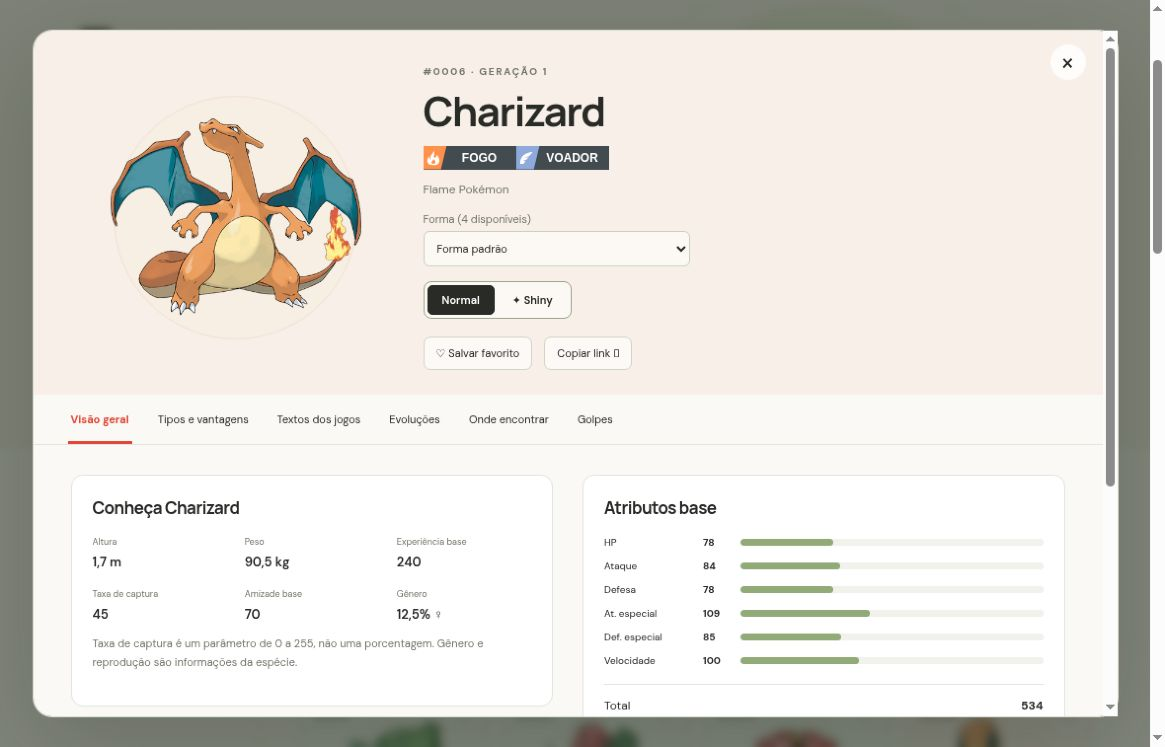
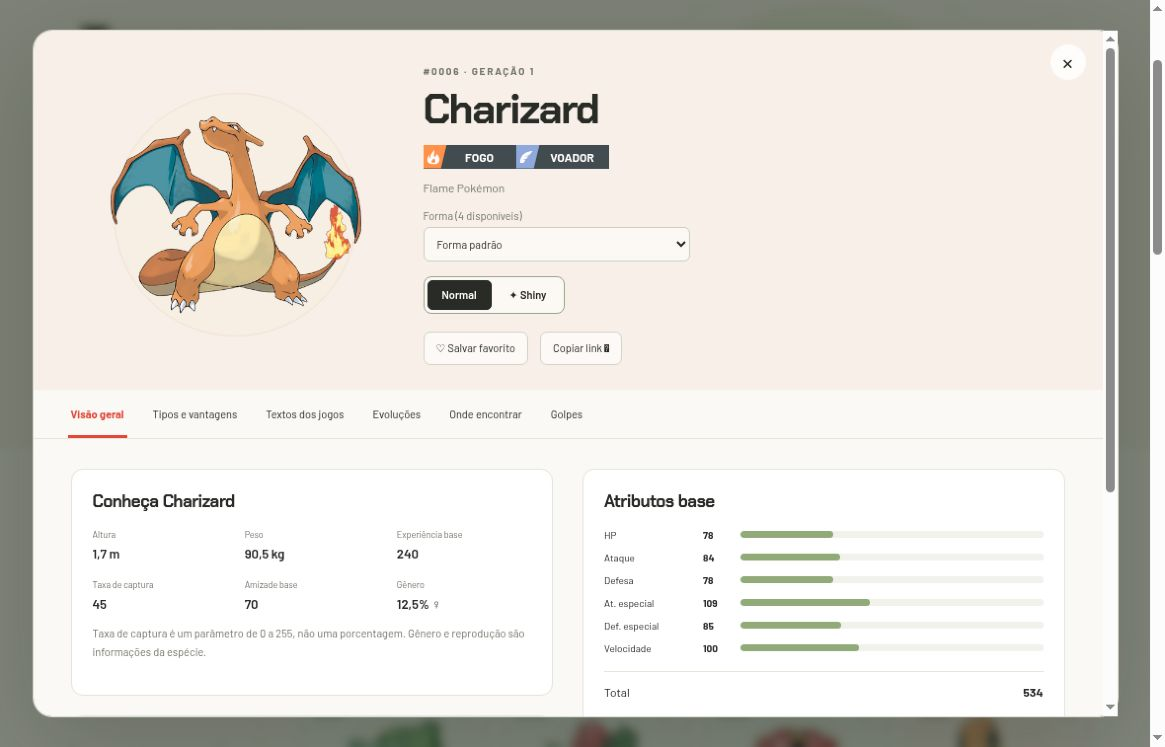
style: aplicar Chakra Petch e Barlow em toda a Pokédex

diff --git a/web/styles.css b/web/styles.css
@@ -1,4 +1,4 @@
-@import url('https://fonts.googleapis.com/css2?family=DM+Sans:wght@400;450;500;550;600;650;700&family=Manrope:wght@400;500;600;650;700;750;800&display=swap');
+@import url('https://fonts.googleapis.com/css2?family=Barlow:wght@400;500;600;700;800&family=Chakra+Petch:wght@400;500;600;700&display=swap');
 /* Identidade visual: cores, tipografia e espaçamentos compartilhados. */
 :root {
   --paper: #faf9f5;
@@ -9,7 +9,9 @@
   --green: #687558;
   --soft: #eff1e7;
   --radius: 18px;
-  font-family: 'DM Sans', sans-serif;
+  --font-body: 'Barlow', sans-serif;
+  --font-heading: 'Chakra Petch', sans-serif;
+  font-family: var(--font-body);
   color: var(--ink);
   background: var(--paper);
   font-synthesis: none;
@@ -68,8 +70,11 @@ p {
 h1,
 h2,
 h3,
+h4,
+h5,
+h6,
 .brand {
-  font-family: 'Manrope', sans-serif;
+  font-family: var(--font-heading);
 }
 h2 {
   font-size: 34px;
@@ -90,7 +95,7 @@ h3 {
 }
 .brand {
   font-size: 29px;
-  font-weight: 800;
+  font-weight: 700;
   letter-spacing: -1.8px;
   display: flex;
   align-items: center;
@@ -139,7 +144,7 @@ h3 {
   gap: 30px;
   align-items: center;
   font-size: 13px;
-  font-weight: 550;
+  font-weight: 500;
 }
 .topbar nav a,
 .topbar nav button {
@@ -193,7 +198,7 @@ h3 {
 }
 h1 {
   font-size: clamp(42px, 4.3vw, 68px);
-  font-weight: 750;
+  font-weight: 700;
   line-height: 1.1;
   letter-spacing: -3.5px;
   margin: 23px 0 19px;
@@ -217,7 +222,7 @@ h1 em {
   border-radius: 8px;
   padding: 15px 21px;
   font-size: 12px;
-  font-weight: 650;
+  font-weight: 600;
   margin-top: 26px;
   transition: background 0.2s;
 }
@@ -240,8 +245,7 @@ h1 em {
 }
 .hero-numbers strong {
   font:
-    750 25px 'Manrope',
-    sans-serif;
+    700 25px var(--font-heading);
   letter-spacing: -1px;
 }
 .hero-numbers span {
@@ -285,7 +289,7 @@ h1 em {
   position: absolute;
   right: 0;
   top: 30px;
-  font: 800 120px 'Manrope';
+  font: 700 120px var(--font-heading);
   color: #d9ddcc;
   letter-spacing: -6px;
 }
@@ -316,7 +320,7 @@ h1 em {
 }
 .featured-label strong {
   display: block;
-  font: 750 27px 'Manrope';
+  font: 700 27px var(--font-heading);
   letter-spacing: -1px;
   margin: 4px 0 8px;
 }
@@ -384,7 +388,7 @@ h1 em {
 .region.active {
   background: #f9e8df;
   color: #c24535;
-  font-weight: 650;
+  font-weight: 600;
 }
 .sidebar-note {
   margin-top: 36px;
@@ -650,9 +654,8 @@ select {
   border-radius: 0;
   background: #414b50;
   color: #fff;
-  font-family: 'Arial Narrow', 'Liberation Sans Narrow', 'Roboto Condensed', sans-serif;
+  font-family: var(--font-body);
   font-size: 11px;
-  font-stretch: condensed;
   font-weight: 700;
   line-height: 1;
   text-transform: uppercase;
@@ -1100,7 +1103,7 @@ dialog::backdrop {
   max-width: 300px;
 }
 .flavor-text {
-  font: 500 23px/1.65 'Manrope';
+  font: 500 23px/1.65 var(--font-body);
   letter-spacing: -0.4px;
   padding: 25px;
   border-left: 3px solid var(--red);

diff --git a/docs/imagens/README.md b/docs/imagens/README.md
@@ -2,23 +2,23 @@
 
 [Início](../../README.md) · [Guia de uso](../usuario/README.md) · [Validação](../VALIDACAO.md)
 
-Estas imagens foram capturadas na aplicação real no preview local em **4 de novembro de 2026**, versão **1.2.0**, usando Chromium. As dez capturas anteriores foram substituídas para mostrar o novo visual dos tipos. As versões antigas continuam no histórico Git, não são apresentadas como o estado atual.
+Estas imagens foram capturadas na aplicação real no preview local em **4 de novembro de 2026**, versão **1.2.1**, usando Chromium. As onze capturas anteriores foram substituídas para mostrar Chakra Petch nos títulos e Barlow nos textos e rótulos de tipos. As versões antigas continuam no histórico Git, não são apresentadas como o estado atual.
 
 Os símbolos são SVG e os nomes são texto, não recortes ampliados da referência. As capturas JPEG preservam a resolução fornecida pelo navegador (aproximadamente 1.165 × 747 pixels no desktop); não foram artificialmente ampliadas.
 
 | Arquivo | Versão | Conteúdo e contexto |
 | --- | --- | --- |
-| [pokedex-refatoracao.jpg](pokedex-refatoracao.jpg) | 1.2.0 | Catálogo inicial com novos tipos; nome do arquivo preservado para links existentes |
-| [pokedex-inicio.jpg](pokedex-inicio.jpg) | 1.2.0 | Página inicial e destaque com Fogo/Voador |
-| [pokedex-formas.jpg](pokedex-formas.jpg) | 1.2.0 | Quatro formas de Charizard com Shiny |
-| [pokedex-tipos.jpg](pokedex-tipos.jpg) | 1.2.0 | Defesa e eficácia de Charizard com símbolos dos 18 tipos |
-| [pokedex-textos.jpg](pokedex-textos.jpg) | 1.2.0 | Charizard, texto em inglês para Shield |
-| [pokedex-evolucoes.jpg](pokedex-evolucoes.jpg) | 1.2.0 | Trecho de Eevee com Jolteon, Flareon e Espeon |
-| [pokedex-encontros.jpg](pokedex-encontros.jpg) | 1.2.0 | Pikachu em Red, áreas e chances por slot |
-| [pokedex-golpes.jpg](pokedex-golpes.jpg) | 1.2.0 | Charizard, Scarlet Violet, busca `flame` |
-| [pokedex-shiny.jpg](pokedex-shiny.jpg) | 1.2.0 | Ficha shiny de Charizard com os novos símbolos |
-| [pokedex-ficha.jpg](pokedex-ficha.jpg) | 1.2.0 | Ficha normal e atributos de Charizard |
-| [pokedex-mobile.jpg](pokedex-mobile.jpg) | 1.2.0 | Frames reais de 375 e 320 pixels; simulação responsiva, não dispositivo físico |
+| [pokedex-refatoracao.jpg](pokedex-refatoracao.jpg) | 1.2.1 | Catálogo inicial com novos tipos; nome do arquivo preservado para links existentes |
+| [pokedex-inicio.jpg](pokedex-inicio.jpg) | 1.2.1 | Página inicial e destaque com Fogo/Voador |
+| [pokedex-formas.jpg](pokedex-formas.jpg) | 1.2.1 | Quatro formas de Charizard com Shiny |
+| [pokedex-tipos.jpg](pokedex-tipos.jpg) | 1.2.1 | Defesa e eficácia de Charizard com símbolos dos 18 tipos |
+| [pokedex-textos.jpg](pokedex-textos.jpg) | 1.2.1 | Charizard, texto em inglês para Shield |
+| [pokedex-evolucoes.jpg](pokedex-evolucoes.jpg) | 1.2.1 | Trecho da família de Eevee com Leafeon e Glaceon |
+| [pokedex-encontros.jpg](pokedex-encontros.jpg) | 1.2.1 | Pikachu em Red, áreas e chances por slot |
+| [pokedex-golpes.jpg](pokedex-golpes.jpg) | 1.2.1 | Charizard, Scarlet Violet, busca `flame` |
+| [pokedex-shiny.jpg](pokedex-shiny.jpg) | 1.2.1 | Ficha shiny de Charizard com os novos símbolos |
+| [pokedex-ficha.jpg](pokedex-ficha.jpg) | 1.2.1 | Ficha normal e atributos de Charizard |
+| [pokedex-mobile.jpg](pokedex-mobile.jpg) | 1.2.1 | Frames reais de 375 e 320 pixels; simulação responsiva, não dispositivo físico |
 
 ## Catálogo e formas
 

diff --git a/README.md b/README.md
@@ -10,7 +10,9 @@ Explore espécies, descubra formas e conheça cada detalhe da sua próxima avent
 
 ![Página inicial da Pokédex com a chamada Temos que pegar e o catálogo nacional](docs/imagens/pokedex-inicio.jpg)
 
-*Página inicial da versão 1.2.0, capturada no aplicativo real. O site está aberto ao público desde 03/11/2026; o código também pode ser executado localmente.*
+*Página inicial da versão 1.2.1, capturada no aplicativo real. O site está aberto ao público desde 03/11/2026; o código também pode ser executado localmente.*
+
+A interface usa **Chakra Petch nos títulos e na marca** e **Barlow nos textos, controles e rótulos de tipos**. As capturas abaixo mostram essa identidade; a fonte do texto Markdown no GitHub é definida pela própria plataforma.
 
 ## O que este projeto faz
 
@@ -46,7 +48,7 @@ A seleção de forma muda o registro consultado. A alternância **Normal/Shiny**
 
 ![Charizard shiny na visão geral, com símbolos vetoriais dos tipos e atributos](docs/imagens/pokedex-shiny.jpg)
 
-*Captura da versão 1.2.0: shiny e faixas com ícones vetoriais, cores vivas e nomes legíveis.*
+*Captura da versão 1.2.1: shiny e faixas com ícones vetoriais, cores vivas e nomes legíveis.*
 
 Formas cosméticas usam sprites específicos quando disponíveis. Se a fonte não fornece uma imagem shiny utilizável, a interface avisa; não apresenta a imagem normal como se fosse shiny.
 
@@ -240,7 +242,7 @@ npm test
 npm run build
 ```
 
-São **33 testes automatizados**: 8 de domínio, 6 de integridade da base, 5 de imagens, 3 de carregamento, 7 de painéis/seleção e 4 de apresentação vetorial dos tipos. A suíte não exige rede nem navegador. A verificação estática confere sintaxe JavaScript, referências locais do HTML e invariantes básicos. O build recria `dist/` a partir de `web/`.
+São **34 testes automatizados**: 8 de domínio, 6 de integridade da base, 5 de imagens, 3 de carregamento, 7 de painéis/seleção e 5 de apresentação visual e tipografia. A suíte não exige rede nem navegador. A verificação estática confere sintaxe JavaScript, referências locais do HTML e invariantes básicos. O build recria `dist/` a partir de `web/`.
 
 O GitHub Actions roda os comandos web com Node.js 22 e compila/executa o Java com JDK 17. O CI não faz deploy automático e não substitui revisão visual, testes físicos de dispositivos ou auditoria completa de acessibilidade.
 

diff --git a/docs/VALIDACAO.md b/docs/VALIDACAO.md
@@ -2,7 +2,16 @@
 
 [Início](../README.md) · [Suíte e roteiro manual](../tests/README.md) · [Galeria](imagens/README.md)
 
-Este registro distingue resultados observados, verificações automatizadas e limites. A aplicação está na versão **1.2.0**. Os registros anteriores abaixo são históricos.
+Este registro distingue resultados observados, verificações automatizadas e limites. A aplicação está na versão **1.2.1**. Os registros anteriores abaixo são históricos.
+
+## Tipografia 1.2.1 — 2026-11-04
+
+- `npm test`: 34 testes aprovados; `npm run check` e `npm run build` aprovados.
+- Chromium: família computada Chakra Petch no título e Barlow no corpo e badges; sem transbordamento horizontal no documento desktop.
+- Capturas renovadas de início, catálogo, formas, ficha, shiny, tipos, textos, evoluções, encontros, golpes e frames responsivos de 320/375 pixels.
+- Layout responsivo inspecionado visualmente em frames reais, não em aparelho físico.
+- O teste de regressão impede o retorno das famílias anteriores e confere os tokens e sua aplicação em títulos, badges e descrições.
+- Java não foi alterado; validação de CI remoto deve ser consultada no commit publicado.
 
 ## Tipos vetoriais 1.2.0 — 2026-11-04
 

diff --git a/web/README.md b/web/README.md
@@ -21,3 +21,7 @@ O catálogo inicia com 24 cartões. As fichas usam seis abas e carregamento por 
 Favoritos ficam no `localStorage` da origem. Não há backend de contas, chave de API, banco remoto, service worker ou garantia de funcionamento offline. O servidor de desenvolvimento apenas fornece os arquivos.
 
 Antes de enviar mudanças visuais, confira cartões, forma alternativa, shiny, ficha com dados ausentes, foco de teclado e tela estreita. [Validação](../tests/README.md).
+
+## Tipografia
+
+`styles.css` centraliza as famílias em `--font-heading` (Chakra Petch) e `--font-body` (Barlow). Títulos, marca e números de destaque usam a primeira; parágrafos, formulários, abas, tabelas e faixas de tipos usam a segunda. O carregamento via Google Fonts usa `display=swap`, com fallback sans-serif.

diff --git a/docs/FONTES.md b/docs/FONTES.md
@@ -4,6 +4,13 @@
 
 A interface, organização, importador, regras de consulta e testes desta versão foram desenvolvidos para o projeto de **Luigi Scofano de Araujo**. O exercício Java original de 2023 está preservado em `src/` e no histórico Git.
 
+## Tipografia
+
+- [Chakra Petch](https://fonts.google.com/specimen/Chakra+Petch): títulos, marca e números de destaque.
+- [Barlow](https://fonts.google.com/specimen/Barlow): textos, controles e rótulos.
+
+As famílias são carregadas pelo Google Fonts; sem rede, o navegador usa a alternativa sans-serif.
+
 ## Base e imagens
 
 - [PokéAPI](https://pokeapi.co/docs/v2/): modelo de dados e documentação.

diff --git a/CHANGELOG.md b/CHANGELOG.md
@@ -1,5 +1,12 @@
 # Histórico de mudanças
 
+## 1.2.1 — 2026-11-04
+
+- Chakra Petch aplicada a títulos, marca e números de destaque; Barlow a textos, controles, descrições e rótulos de tipos.
+- Tokens CSS centralizados e remoção de todas as famílias tipográficas anteriores.
+- Onze capturas reais renovadas, incluindo os layouts responsivos de 320 e 375 pixels.
+- Teste de regressão tipográfica adicionado; 34 testes aprovados.
+
 ## 1.2.0 — 2026-11-04
 
 - Tipos redesenhados com faixas retangulares, corte diagonal, símbolos brancos próprios de cada tipo e cores vivas, seguindo a referência visual.
